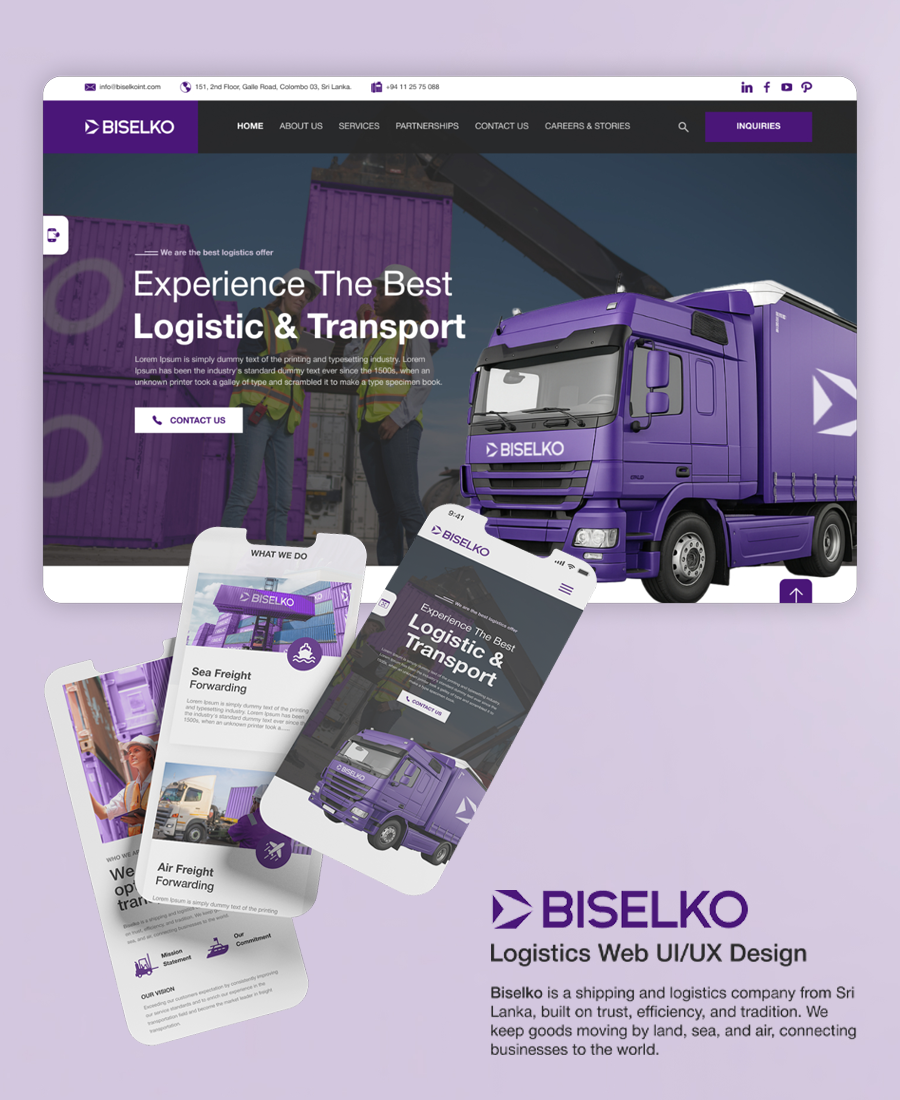
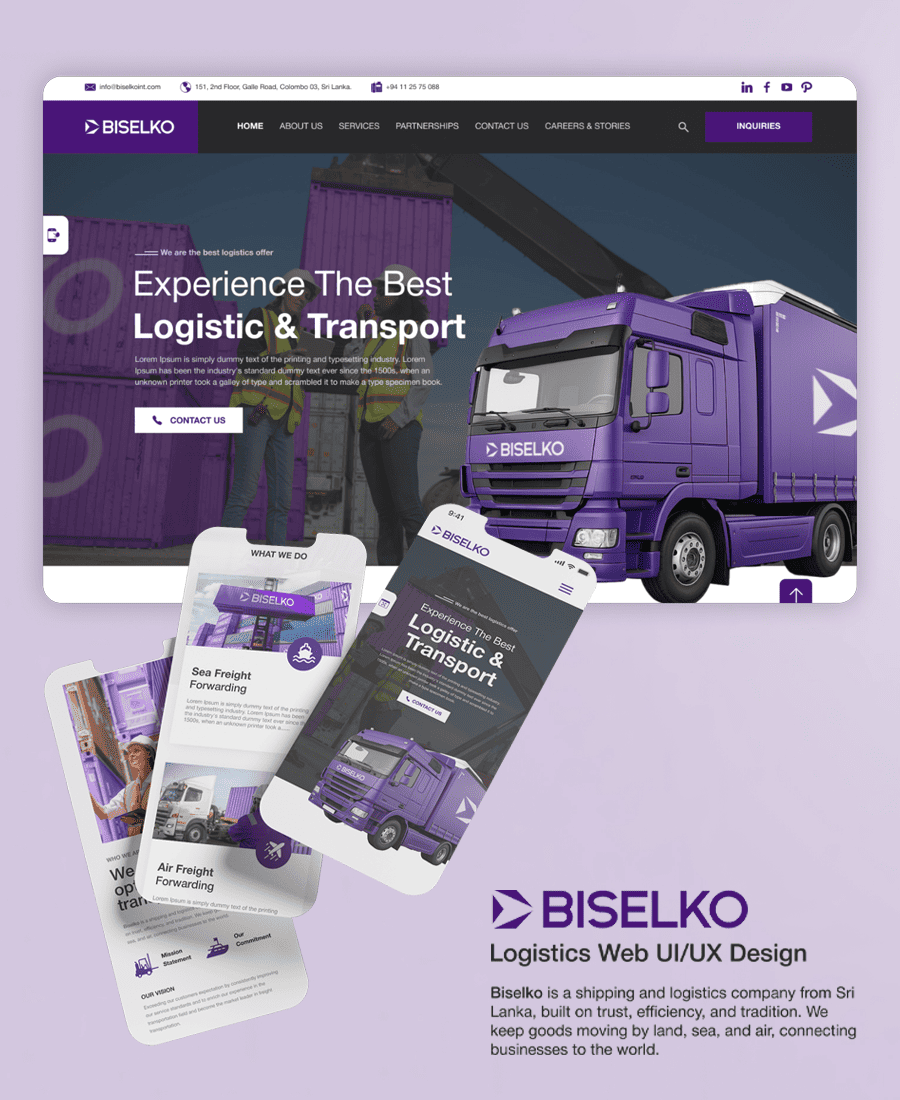
image update

diff --git a/src/data/projects.ts b/src/data/projects.ts
@@ -20,7 +20,7 @@ export const projects: Project[] = [
     slug: 'srilankan-tours-website',
     title: 'Tourism Company – Sri Tours Lanka',
     category: 'Web Design',
-    cover: '/assets/projects/travel.jpg',
+    cover: '/assets/projects/travel.png',
     description: 'A clean, engaging booking platform for Sri Tours Lanka, engineered to showcase rich travel experiences across Sri Lanka and drive private tour bookings.',
     type: "image"
   },
@@ -46,7 +46,7 @@ export const projects: Project[] = [
     slug: 'ecodaft',
     title: 'Artist Portfolio UI/UX Design – Echo Daft',
     category: 'UI / UX Design',
-    cover: '/assets/projects/Eco Daft.webp',
+    cover: '/assets/projects/Eco Daft.png',
     description: 'A dark, futuristic artist portfolio capturing the energy of the underground music scene through bold typography, immersive imagery, and a sleek, minimalist style.',
     type: "image"
   },
@@ -62,7 +62,7 @@ export const projects: Project[] = [
     slug: 'time-after-time',
     title: 'Time After Time - InCircle 24',
     category: 'UI / UX Design',
-    cover: '/assets/projects/timeafter.webp',
+    cover: '/assets/projects/timeafter.png',
     description: 'An all-in-one music platform providing comprehensive ecosystem solutions, from event management and audio production to artist management, publishing, and brand consultancy.',
     type: "image"
   },

diff --git a/src/pages/Projects.tsx b/src/pages/Projects.tsx
@@ -63,7 +63,6 @@ export default function Projects() {
               data-cursor="grow"
               className="project-page-card group block overflow-hidden rounded-3xl border border-mist bg-cloud"
             >
-              {/* Media Container */}
               <div className="aspect-[4/5] overflow-hidden bg-cloud relative">
                 {project.type === 'video' ? (
                   <video
@@ -86,7 +85,6 @@ export default function Projects() {
                 )}
               </div>
 
-              {/* Content Details */}
               <div className="p-5">
                 <div className="flex items-center justify-between gap-3">
                   <div>